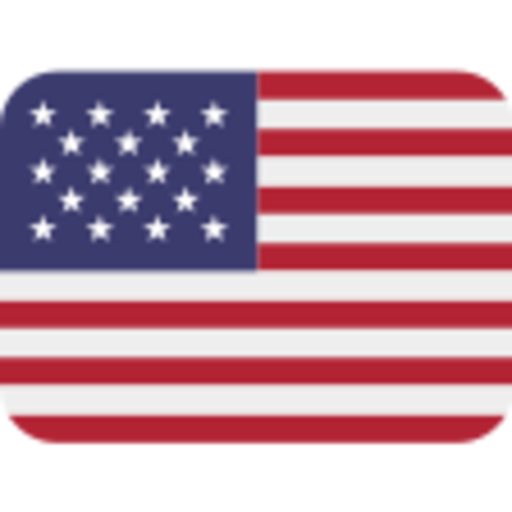
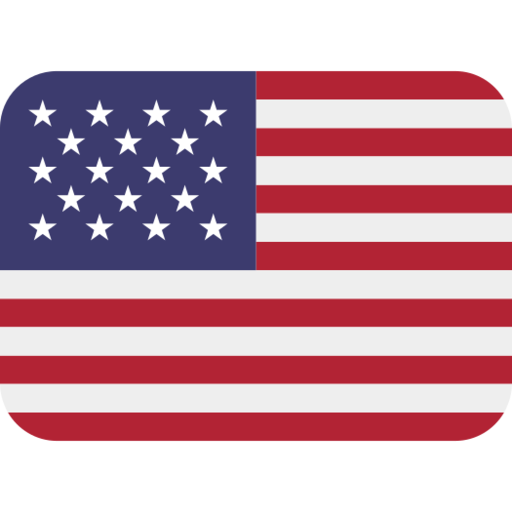
Fix blurry flag art - source SVGs were being upscaled, not rendered at full resolution
Twemoji's flag SVGs have a tiny native 36x36 viewBox with no explicit
width/height, so the original ImageMagick conversion (-density 300) was
rasterizing them at roughly 112px natively and then upscaling to 512px -
baking blur into the PNG itself, visible even at normal canvas size, not
just small thumbnails. Re-rendered at the correct density so the native
raster already meets 512px before the final resize, eliminating the
upscale step entirely.

diff --git a/wp-content/plugins/rrt-label-configurator/rrt-label-configurator.php b/wp-content/plugins/rrt-label-configurator/rrt-label-configurator.php
@@ -29,7 +29,7 @@ if ( ! defined( 'ABSPATH' ) ) {
 	exit;
 }
 
-define( 'RRT_LABEL_VERSION', '3.16.0' );
+define( 'RRT_LABEL_VERSION', '3.16.1' );
 define( 'RRT_LABEL_PATH', plugin_dir_path( __FILE__ ) );
 define( 'RRT_LABEL_URL', plugin_dir_url( __FILE__ ) );
 
@@ -586,6 +586,7 @@ function rrt_label_configurator_shortcode( $atts ) {
 	return ob_get_clean();
 }
 add_shortcode( 'rrt_label_configurator', 'rrt_label_configurator_shortcode' );
+
 
 
 
